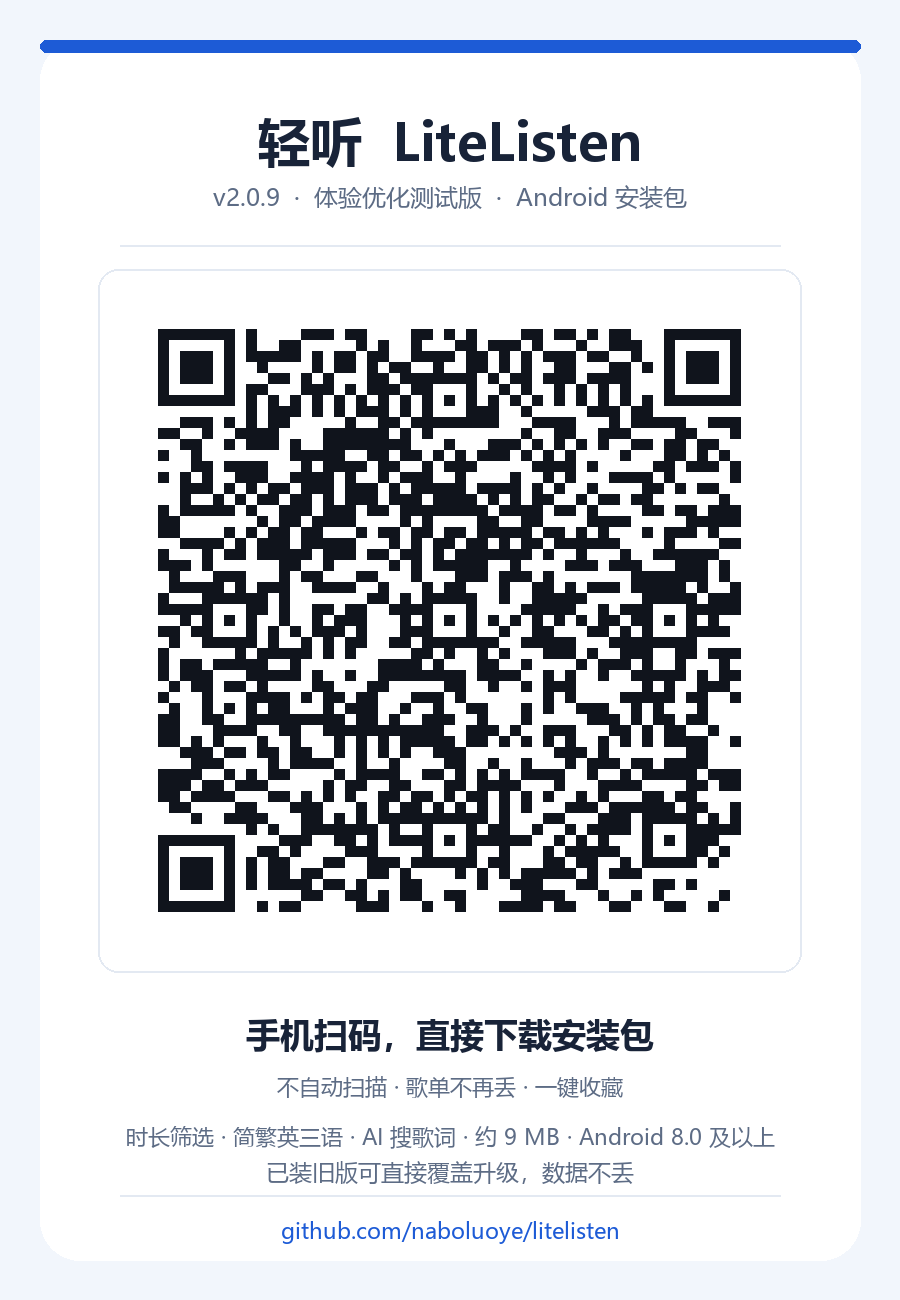
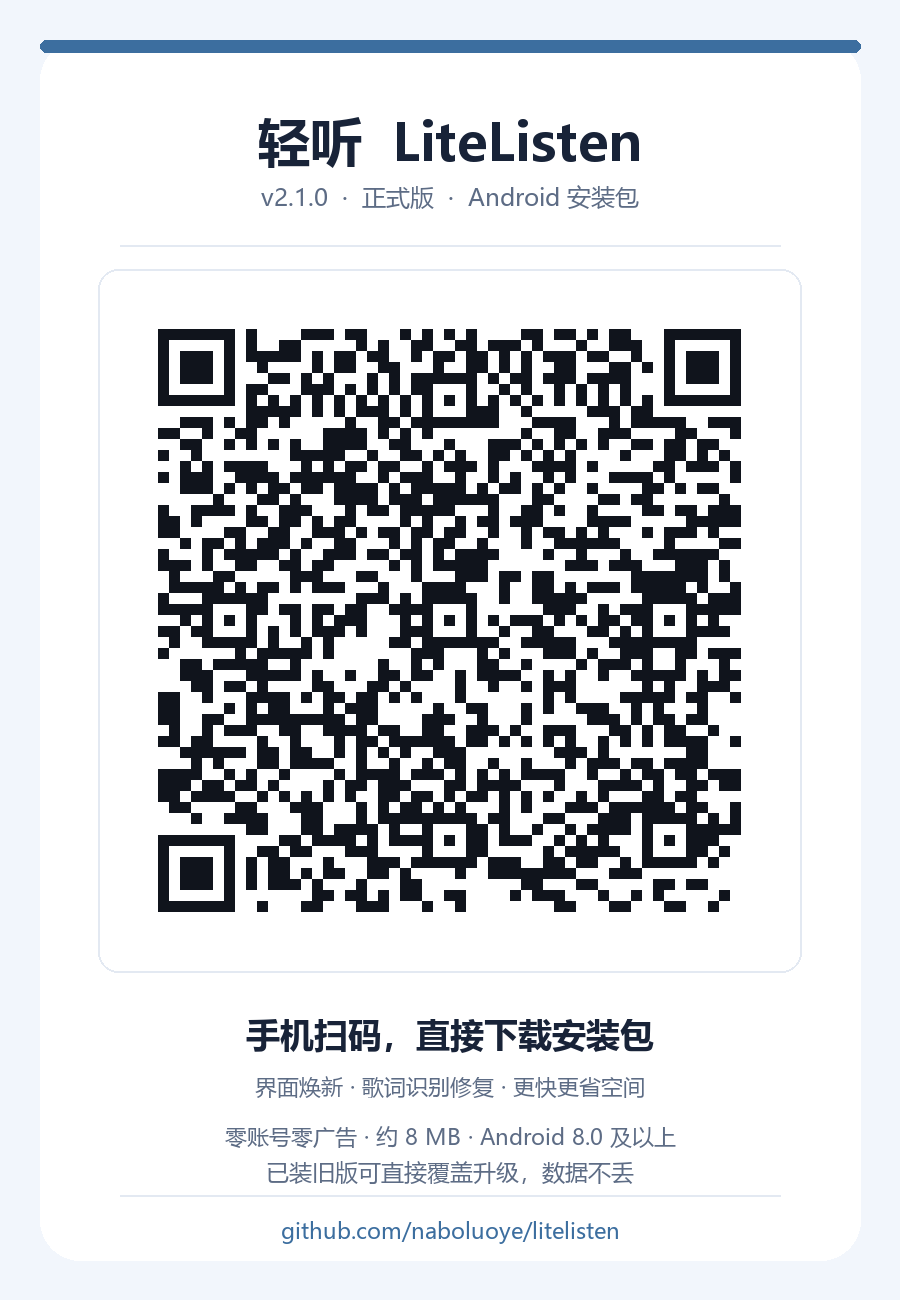
release: v2.1.0 正式版（界面焕新/歌词修复/更省空间）

diff --git a/README.md b/README.md
@@ -1,11 +1,22 @@
 # 轻听 LiteListen · Android 局域网音乐播放器
 
-> **当前版本：v2.0.9（体验优化测试版：不自动扫描 / 歌单不丢 / 时长筛选 / 三语）** ｜ 仓库：https://github.com/naboluoye/litelisten
-> [v2.0.9 Release 下载页](https://github.com/naboluoye/litelisten/releases/tag/v2.0.9) ｜ [v2.0.8](https://github.com/naboluoye/litelisten/releases/tag/v2.0.8) ｜ [v2.0.5（正式版，推荐稳定使用）](https://github.com/naboluoye/litelisten/releases/tag/v2.0.5) ｜ [v2.0.7](https://github.com/naboluoye/litelisten/releases/tag/v2.0.7) ｜ [v2.0.6](https://github.com/naboluoye/litelisten/releases/tag/v2.0.6) ｜ [v2.0.4](https://github.com/naboluoye/litelisten/releases/tag/v2.0.4) ｜ [v2.0.3](https://github.com/naboluoye/litelisten/releases/tag/v2.0.3) ｜ [v1.0.0（历史骨架版）](https://github.com/naboluoye/litelisten/releases/tag/v1.0.0)
+> **当前版本：v2.1.0（正式版：界面焕新 / 歌词识别修复 / 更快更小）** ｜ 仓库：https://github.com/naboluoye/litelisten
+> [v2.1.0 Release 下载页](https://github.com/naboluoye/litelisten/releases/tag/v2.1.0) ｜ [v2.0.9](https://github.com/naboluoye/litelisten/releases/tag/v2.0.9) ｜ [v2.0.8](https://github.com/naboluoye/litelisten/releases/tag/v2.0.8) ｜ [v2.0.5（旧稳定版）](https://github.com/naboluoye/litelisten/releases/tag/v2.0.5) ｜ [v2.0.7](https://github.com/naboluoye/litelisten/releases/tag/v2.0.7) ｜ [v2.0.6](https://github.com/naboluoye/litelisten/releases/tag/v2.0.6) ｜ [v2.0.4](https://github.com/naboluoye/litelisten/releases/tag/v2.0.4) ｜ [v2.0.3](https://github.com/naboluoye/litelisten/releases/tag/v2.0.3) ｜ [v1.0.0（历史骨架版）](https://github.com/naboluoye/litelisten/releases/tag/v1.0.0)
 > 包名 `com.litelisten.player` ｜ minSdk 26（Android 8.0）/ targetSdk 35 ｜ Kotlin 2.1.0 + Compose + Media3 + Room
 > 零账号、零广告、零遥测；本地/局域网音乐播放与曲库管理全程离线。可选的联网功能都必须由你**主动点击**才发一次请求：播放页「AI 介绍」（v2.0.6 起）、歌词页「AI 讲解歌词」（v2.0.7 起）、歌词页「AI 联网搜歌词」（v2.0.9 起），不点就完全离线；服务配置由构建期注入，仓库与文档不含任何服务信息。
 
-**版本沿革**：v1.0.0 只是 P0 工程骨架；**v2.0.0 把 P1–P7 全部实现为真实功能**；v2.0.1 修掉「装完曲库为空」「WebDAV 子目录 404」等运行时缺陷；v2.0.2 修复局域网设备发现与根目录浏览；v2.0.3 新增 Jellyfin 媒体服务器接入、把账号密码前置到添加向导、并加入无损高保真播放；v2.0.4 修复 Jellyfin 扫描到 0 首、DLNA/群晖连接失败，并加入出品方文案；v2.0.5 加入无缝播放、ReplayGain 响度均衡、内嵌歌词与逐字歌词，是**稳定的正式版**；v2.0.6 增加播放页「AI 介绍」按钮；v2.0.7 让歌词更准、能跟着唱、AI 能讲歌词；v2.0.8 是曲库管理测试版：一键重置重扫、按文件夹整理、自建歌单并按歌单播放；**v2.0.9 是体验优化测试版：不再自动扫描、歌单不再莫名消失、加歌单更省事、时长筛选、简繁英三语、DLNA 连接修复、歌词页可搜歌词**。所有版本使用同一把签名密钥，**已装旧版可直接覆盖升级，数据不丢**。
+**版本沿革**：v1.0.0 只是 P0 工程骨架；**v2.0.0 把 P1–P7 全部实现为真实功能**；v2.0.1 修掉「装完曲库为空」「WebDAV 子目录 404」等运行时缺陷；v2.0.2 修复局域网设备发现与根目录浏览；v2.0.3 新增 Jellyfin 媒体服务器接入、把账号密码前置到添加向导、并加入无损高保真播放；v2.0.4 修复 Jellyfin 扫描到 0 首、DLNA/群晖连接失败，并加入出品方文案；v2.0.5 加入无缝播放、ReplayGain 响度均衡、内嵌歌词与逐字歌词，是**稳定的正式版**；v2.0.6 增加播放页「AI 介绍」按钮；v2.0.7 让歌词更准、能跟着唱、AI 能讲歌词；v2.0.8 是曲库管理测试版：一键重置重扫、按文件夹整理、自建歌单并按歌单播放；**v2.0.9 是体验优化测试版：不再自动扫描、歌单不再莫名消失、加歌单更省事、时长筛选、简繁英三语、DLNA 连接修复、歌词页可搜歌词**；**v2.1.0 是正式版：界面全面焕新（雾蓝主题 / 留白层级 / 按钮逻辑更清晰），并修复歌词扫描识别、精简代码与依赖、安装包更小**。所有版本使用同一把签名密钥，**已装旧版可直接覆盖升级，数据不丢**。
+
+### v2.1.0 正式版（界面焕新 · 歌词修复 · 更省空间）
+
+| 改进 | 说明 |
+|---|---|
+| 界面焕新 | 整体换成沉稳的雾蓝主题，补齐文字与容器色阶；列表行更透气、正在播放的歌曲整行高亮；空状态带图标容器、小播放器改为悬浮卡片、底部导航选中态更清晰；封面与分区排版重新梳理 |
+| 按钮更好认 | 修复"歌词"和"均衡器"用了同一个图标的问题；播放页底部功能改成"图标 + 小字"，一眼就知道每个按钮做什么；删掉重复的"更多"入口 |
+| 歌词扫描修复 | 修掉一个真 bug：以前本机扫描的歌曲歌词识别不到（相对路径判断错误），现在改为按文件真实路径读取文件头、并按真实文件名去找同名 .lrc，扫描更准 |
+| 更快更省空间 | 精简了搜索、封面加载等算法与多处无用代码，移除 8 个没用到的依赖；安装包从约 8.7 MB 降到约 8 MB |
+
+边界说明（如实）：本版只改界面观感与底层识别/性能逻辑，**播放、歌单、曲库、网络来源等既有功能全部保留**，操作方式与 v2.0.9 一致；歌词是否显示仍取决于你手机或 NAS 上是否有对应歌词文件。零账号、零广告、零遥测与局域网私网闸口等红线全部保持不变。
 
 ### v2.0.9 新增（测试版 · 体验优化）
 
@@ -119,12 +130,12 @@
 
 ---
 
-## 扫码下载（v2.0.9 测试版）
+## 扫码下载（v2.1.0 正式版）
 
-![轻听 v2.0.9 扫码下载](docs/qr-download.png)
+![轻听 v2.1.0 扫码下载](docs/qr-download.png)
 
-- **扫码直达 APK**：<https://github.com/naboluoye/litelisten/releases/download/v2.0.9/LiteListen-v2.0.9.apk>
-- 版本说明与 SHA-256：[GitHub Release v2.0.9](https://github.com/naboluoye/litelisten/releases/tag/v2.0.9)
+- **扫码直达 APK**：<https://github.com/naboluoye/litelisten/releases/download/v2.1.0/LiteListen-v2.1.0.apk>
+- 版本说明与 SHA-256：[GitHub Release v2.1.0](https://github.com/naboluoye/litelisten/releases/tag/v2.1.0)
 - 可转发的下载卡片：[docs/qr-download-card.png](docs/qr-download-card.png)
 - 下载后在系统里允许「安装未知来源」即可安装。二维码采用 30% 纠错等级并保留静默区，缩放或打印后仍可识别（已用解码器实测校验）。
 
@@ -162,7 +173,7 @@
 
 ---
 
-## 3. 已真实跑通的验证（v2.0.9）
+## 3. 已真实跑通的验证（v2.1.0）
 
 | 项目 | 结果 |
 |---|---|
@@ -170,10 +181,10 @@
 | `./gradlew :app:testDebugUnitTest` | ✅ **16 个测试类 / 95 条用例，0 失败**（本轮新增时长筛选 6 条单测） |
 | `./gradlew :app:lintDebug` | ✅ 0 error |
 | 三语资源合并（values / values-zh-rTW / values-en） | ✅ 446 条全部覆盖，占位符零不匹配 |
-| `./gradlew :app:assembleRelease`（R8 混淆 + 资源压缩） | ✅ BUILD SUCCESSFUL；云端正式签名产物体积与 SHA-256 见 [Release v2.0.9](https://github.com/naboluoye/litelisten/releases/tag/v2.0.9) |
+| `./gradlew :app:assembleRelease`（R8 混淆 + 资源压缩） | ✅ 云端签名产物已发布；体积与 SHA-256 见 [Release v2.1.0](https://github.com/naboluoye/litelisten/releases/tag/v2.1.0) |
 | `apksigner verify --verbose`（云端流水线） | ✅ 沿用同一把 RSA 4096 密钥，证书 SHA-256 `cc7b03e7…e7ac`，与 v1.0.0 一致，可覆盖升级 |
 | `ci_guard.py --check all` / `--check apk` | ✅ PASS，合并后 Manifest 权限仍为 11 项主动申请 + 2 项已审计库注入（**未新增麦克风权限**） |
-| GitHub Actions `CI` / `Release` | tag `v2.0.9` 触发签名发版，结果见仓库 Actions |
+| GitHub Actions `CI` / `Release` | tag `v2.1.0` 触发签名发版，结果见仓库 Actions |
 
 本机验证使用 JDK 21 + 临时安装的 Android 35 SDK；云端流水线使用 Temurin 17 与 GitHub Secrets 中的正式密钥。
 
@@ -232,9 +243,9 @@ release.yml ──> 版本一致性校验 → 红线守卫 → 单测门禁
 ### 每次发版 SOP
 
 ```bash
-python3 scripts/bump_version.py 2.0.9     # versionCode 自动 +1
-git add version.properties && git commit -m "release: 2.0.9"
-git tag -a v2.0.9 -m "Release 2.0.9"
+python3 scripts/bump_version.py 2.1.0     # versionCode 自动 +1
+git add version.properties && git commit -m "release: 2.1.0"
+git tag -a v2.1.0 -m "Release 2.1.0"
 git push origin main --tags               # 推 tag 后 release.yml 自动跑
 ```
 
@@ -303,7 +314,7 @@ litelisten/
 ├─ docs/{qr-download.png, qr-download-card.png}  扫码下载图（随版本更新）
 ├─ scripts/{ci_guard.py, bump_version.py}      红线守卫 / 版本自增
 ├─ gradle/libs.versions.toml                   唯一依赖版本源
-├─ version.properties                          versionCode=11 / versionName=2.0.9
+├─ version.properties                          versionCode=12 / versionName=2.1.0
 ├─ app/proguard-rules.pro                      R8 / kotlinx.serialization 规则
 └─ app/src/main/java/com/litelisten/player/
    ├─ core/{model, common, designsystem, database, datastore, network, scan, player}
